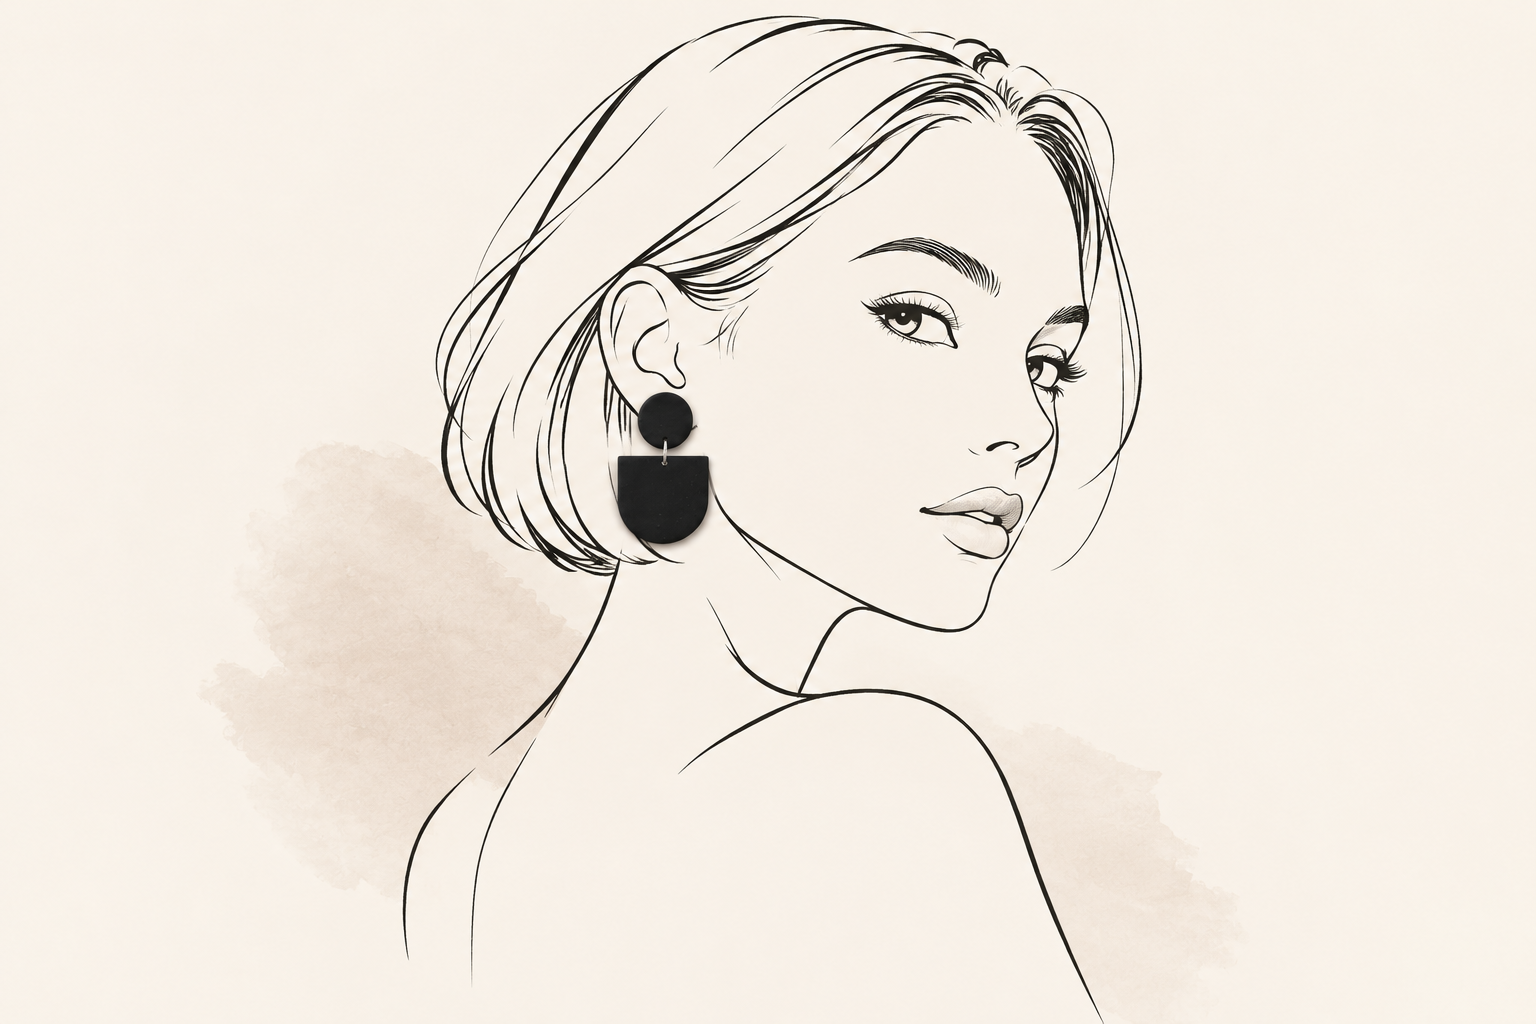
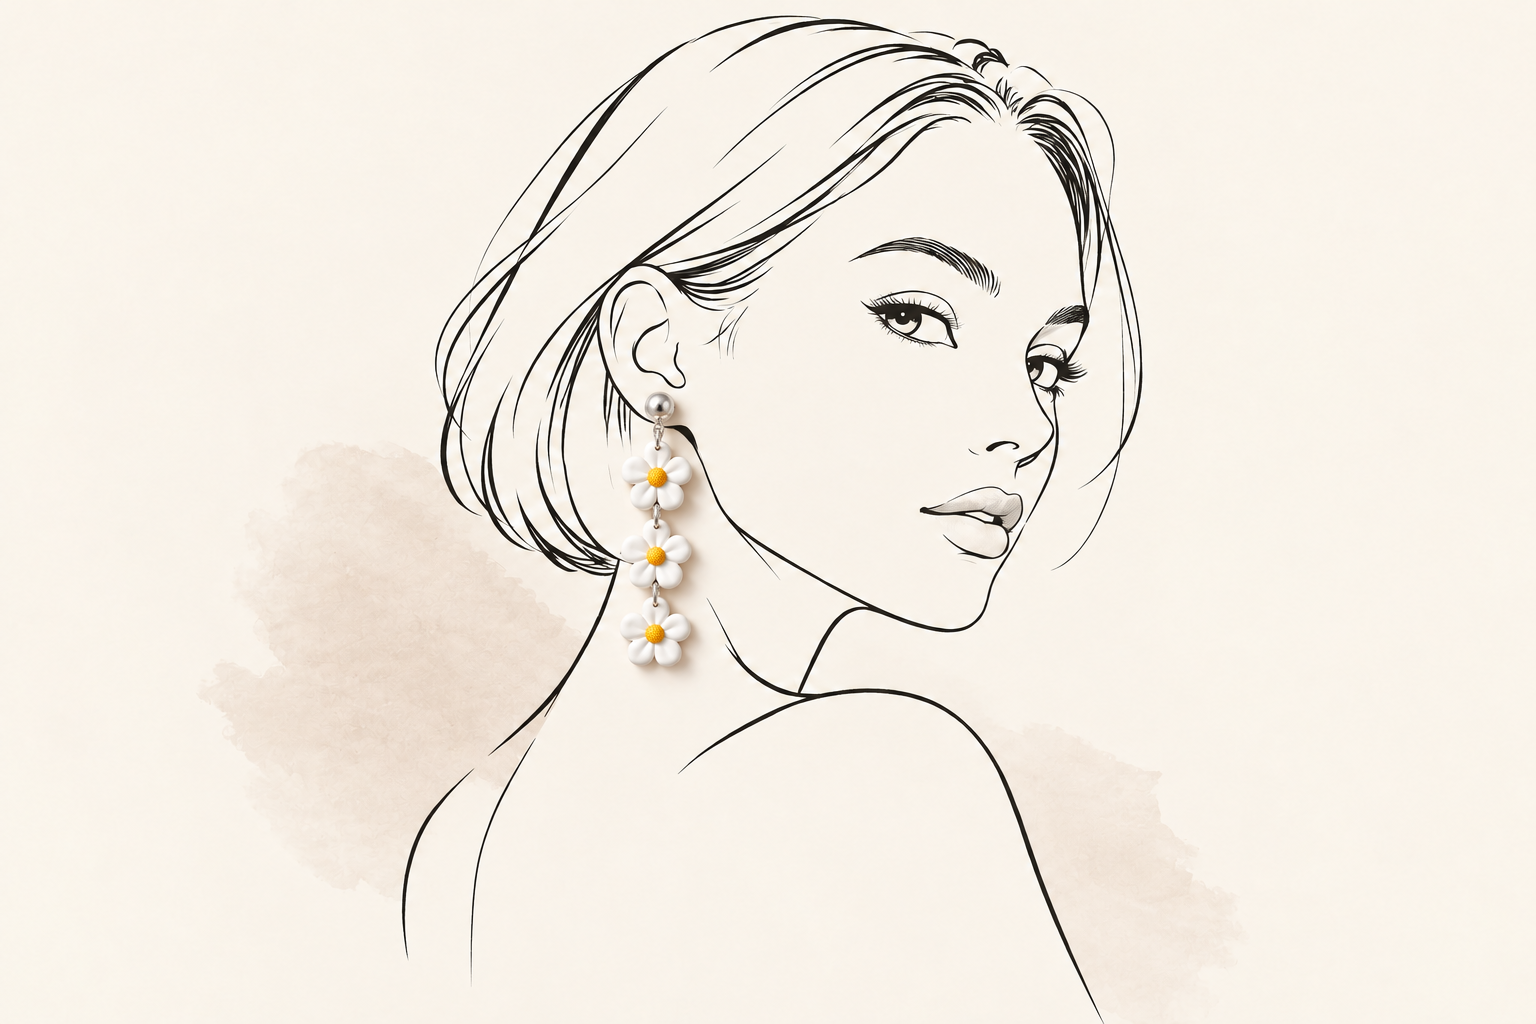
commit changes

diff --git a/index.html b/index.html
@@ -18,8 +18,8 @@
     <a href="#top" class="brand"><img src="Clay Lane Logo.jpeg" alt="Clay Lane logo"></a>
     <nav class="nav" aria-label="Main">
       <a href="shop.html">Shop</a>
-      <a href="#story">Our Story</a>
       <a href="#care">Care</a>
+      <a href="#story">Our Story</a>
       <a href="#contact">Contact</a>
     </nav>
     <button class="cart-btn" id="open-cart" aria-label="Open cart">Cart <span id="cart-count">0</span></button>
@@ -28,10 +28,8 @@
   <main id="top">
     <section class="hero">
       <div class="hero-copy">
-        <p class="eyebrow">Handcrafted polymer clay earrings</p>
-        <h1>Small things,<br><em>made with love.</em></h1>
+        <h1 class="eyebrow">Handcrafted polymer clay earrings</h1>
         <p class="lead">Lightweight statement earrings, shaped and finished by hand.</p>
-        <a href="shop.html" class="btn">Shop the collection</a>
       </div>
     </section>
 
@@ -69,64 +67,10 @@
       </svg>
     </div>
 
-    <section id="shop" class="section featured-section">
-      <div class="section-head">
-        <div>
-          <p class="eyebrow">A few favourites</p>
-          <h2>Featured pieces</h2>
-        </div>
-      </div>
-      <div class="grid" id="product-grid" data-featured="true"></div>
-      <div class="featured-cta"><a class="btn" href="shop.html">Shop all products</a></div>
-    </section>
-
-    <section class="atelier">
-      <div class="atelier-copy">
-        <p class="eyebrow">A little more personal</p>
-        <h2>Nature, shaped<br>by hand.</h2>
-        <p>Inspired by petals, winding stems and the quiet beauty of handmade things. Each piece carries its own little variation.</p>
-        <a href="#story" class="text-link">Discover the Clay Lane story <span aria-hidden="true">↗</span></a>
-      </div>
-      <div class="botanical-art" aria-hidden="true">
-        <img class="atelier-photo" src="SomethingPersonal%20whiteflower-three-tier.png" alt="" loading="lazy">
-        <span class="art-caption">Petals, pressed in clay</span>
-      </div>
-    </section>
-
-    <section id="story" class="section story">
-      <div>
-        <p class="eyebrow">Our story</p>
-        <h2>Shaped by hand, one pair at a time</h2>
-      </div>
-      <div>
-        <p>Every pair of Clay Lane earrings begins as a small block of polymer clay, blended into soft, earthy colours, cut, baked and finished by hand. No two pairs are ever exactly alike.</p>
-        <p>We design for everyday wear: light on the ear, gentle on the skin and made to be noticed.</p>
-      </div>
-    </section>
-
-    <section class="section perks">
-      <div><span class="petal-mark" aria-hidden="true">✳</span><h3>Handmade</h3><p>Crafted in small batches.</p></div>
-      <div><span class="petal-mark" aria-hidden="true">✳</span><h3>Lightweight</h3><p>Comfortable all day long.</p></div>
-      <div><span class="petal-mark" aria-hidden="true">✳</span><h3>Gift ready</h3><p>Packaged with care.</p></div>
-    </section>
-
     <section id="care" class="section care">
       <svg class="hand-frame" viewBox="0 0 100 100" preserveAspectRatio="none" aria-hidden="true">
         <path d="M1.2 2.4C18 1.4 33 2.8 50 1.9S82 1.2 98.7 2.2C99.4 20 98.3 38 99 55S98.4 85 98.6 97.6C80 98.6 64 97.3 48 98.3S18 98.8 1.4 97.7C.8 78 1.9 60 1.1 43S1.6 16 1.2 2.4Z"/>
         <path class="thin" d="M2.4 3.6C20 3 36 4 52 3.3S84 3.1 97.6 3.6C98.2 22 97.2 40 97.8 56S97.3 82 97.5 96.5C82 97.3 66 96.4 50 97.2S20 97.6 2.6 96.6C2 78 3 60 2.3 44S2.8 18 2.4 3.6Z"/>
-      </svg>
-      <svg class="care-girl" viewBox="0 0 160 200" aria-hidden="true">
-        <path d="M71 41C62 52 63 62 60 72C57 76 54 80 58 82C60 84 60 86 58 88C60 92 60 94 58 97C62 101 68 104 77 104"/>
-        <path d="M71 41C75 21 104 14 118 34C131 53 124 80 111 97"/>
-        <path d="M80 35C93 26 108 33 112 51M86 44C95 40 104 45 106 56M91 52C96 50 101 55 102 62"/>
-        <path d="M110 24C114 10 134 12 134 27C134 40 118 42 112 34"/>
-        <path d="M77 104C79 120 77 135 71 150M111 97C110 121 114 137 124 150"/>
-        <path d="M30 192C38 163 58 153 71 150M124 150C141 158 151 173 155 192"/>
-        <path d="M65 64Q70 61 75 64M64 58Q70 55 76 57M72 66Q70 68 66 67"/>
-        <path d="M58 89Q55 91 58 93M98 70C92 66 92 84 99 82"/>
-        <path class="gold" d="M99 86v5"/>
-        <circle class="gold-fill" cx="99" cy="95" r="4.5"/>
-        <path class="gold" d="M133 100c8 6 12 14 12 24M138 112c6 2 10 6 12 12"/>
       </svg>
       <h2>Caring for your earrings</h2>
       <ul>
@@ -134,6 +78,30 @@
         <li>Wipe gently with a soft, dry cloth.</li>
         <li>Store flat or hanging, away from direct sunlight.</li>
       </ul>
+    </section>
+
+    <section class="section perks" aria-labelledby="perks-title">
+      <div class="perks-heading">
+        <p class="eyebrow">Made with care</p>
+        <h2 id="perks-title">The little things matter</h2>
+      </div>
+      <div class="perks-grid">
+        <article class="perk-card">
+          <span class="petal-mark" aria-hidden="true">✿</span>
+          <h3>Handmade, always</h3>
+          <p>Shaped by hand in small batches.</p>
+        </article>
+        <article class="perk-card">
+          <span class="petal-mark" aria-hidden="true">✿</span>
+          <h3>Light as a petal</h3>
+          <p>Lightweight comfort, all day.</p>
+        </article>
+        <article class="perk-card">
+          <span class="petal-mark" aria-hidden="true">✿</span>
+          <h3>Ready to delight</h3>
+          <p>Thoughtfully wrapped for gifting.</p>
+        </article>
+      </div>
     </section>
 
     <section id="contact" class="section contact">
@@ -150,6 +118,22 @@
         <button class="btn" type="submit">Send message</button>
         <p class="form-msg" id="contact-msg" role="status"></p>
       </form>
+    </section>
+
+    <section id="story" class="section story">
+      <div>
+        <p class="eyebrow">Our story</p>
+        <h2>Shaped by hand, one pair at a time</h2>
+      </div>
+      <div>
+        <p>JJust a girl with big dreams, learning to bloom like a sunflower—reaching for the sunshine and finding joy in the little things.</p>
+
+        <p>Clay Lane is where my creativity takes root. Each pair of earrings is shaped, baked and finished by hand, bringing my favourite colours and designs to life. 
+          <br>
+          They’re my little favourites, made to bring a touch of sunshine to your everyday.</p>
+
+        
+      </div>
     </section>
 
   </main>

diff --git a/style.css b/style.css
@@ -141,11 +141,16 @@ button { font: inherit; cursor: pointer; }
 .story > div { max-width: 440px; }
 .story::before { content: ""; position: absolute; z-index: -1; top: 0; bottom: 0; right: 0; width: 58%; background: url("OurStory%20black%20circle-halfcircle-drop.png") center / cover no-repeat; mix-blend-mode: multiply; -webkit-mask-image: radial-gradient(closest-side, #000 55%, transparent 100%); mask-image: radial-gradient(closest-side, #000 55%, transparent 100%); pointer-events: none; }
 .story::after { content: ""; position: absolute; top: 1.3rem; right: 1.5rem; width: 42px; height: 42px; border: 1px solid #d7bba2; border-radius: 50% 50% 48% 52%; box-shadow: inset 0 0 0 5px var(--ivory), inset 0 0 0 6px #d7bba2; opacity: .8; }
-.perks { display: grid; grid-template-columns: repeat(3, 1fr); text-align: center; gap: 2rem; }
-.petal-mark { display: block; color: var(--clay); font-family: var(--serif); font-size: 1.8rem; line-height: 1; margin-bottom: .75rem; }
-.perks h3 { font-size: 1.5rem; }
-.perks p { color: var(--muted); }
-.care { text-align: center; background: var(--ivory-2); max-width: none; }
+.perks { max-width: 800px; }
+.perks-heading { max-width: 600px; margin: 0 auto 1.75rem; text-align: center; }
+.perks-heading .eyebrow { margin-bottom: .4rem; }
+.perks-grid { display: grid; grid-template-columns: repeat(3, minmax(0, 1fr)); gap: 1rem; }
+.perk-card { position: relative; overflow: hidden; padding: 1.35rem 1rem; text-align: center; background: linear-gradient(145deg, #fffaf4, var(--ivory-2)); border: 1px solid var(--line); }
+.perk-card::before { content: ""; position: absolute; top: 0; left: 50%; width: 3rem; height: 2px; background: var(--gold); transform: translateX(-50%); }
+.petal-mark { display: grid; place-items: center; width: 2.6rem; height: 2.6rem; margin: 0 auto .7rem; border: 1px solid #d7bba2; border-radius: 50%; background: var(--ivory); color: var(--clay); font-size: 1.15rem; line-height: 1; }
+.perk-card h3 { margin-bottom: .3rem; font-size: 1.25rem; }
+.perk-card p { max-width: 18rem; margin: 0 auto; color: var(--muted); font-size: .9rem; line-height: 1.5; }
+.care { text-align: center; background-color: var(--ivory-2); background-image: url("Caring%20black%20circle-doublecircle-drop.png"); background-position: right bottom; background-repeat: no-repeat; background-size: clamp(220px, 28vw, 380px) auto; background-blend-mode: multiply; max-width: none; }
 .care h2::after, .contact h2::after { content: ""; display: block; width: 58px; height: 1px; margin: 1rem auto 0; background: var(--gold); }
 .care h2::before, .contact h2::before { content: "✿"; display: block; color: var(--clay); font-size: 1rem; margin-bottom: .6rem; }
 .care { position: relative; overflow: hidden; }
@@ -157,10 +162,7 @@ button { font: inherit; cursor: pointer; }
 .hand-frame { position: absolute; inset: 1rem; width: calc(100% - 2rem); height: calc(100% - 2rem); fill: none; stroke: var(--ink); stroke-width: 1.6; stroke-linecap: round; stroke-linejoin: round; pointer-events: none; opacity: .85; }
 .hand-frame .thin { stroke: var(--gold); stroke-width: 1; opacity: .8; }
 .hand-frame path { vector-effect: non-scaling-stroke; }
-.care > .care-girl { position: absolute; z-index: 1; right: clamp(2rem, 6vw, 5rem); bottom: 1.1rem; width: clamp(110px, 12vw, 160px); fill: none; stroke: var(--ink); stroke-width: 1.4; stroke-linecap: round; stroke-linejoin: round; opacity: .8; pointer-events: none; }
-.care-girl .gold { stroke: var(--gold); }
-.care-girl .gold-fill { fill: var(--gold); stroke: none; }
-@media (max-width: 800px) { .care > .care-girl { width: 80px; right: 2.4rem; opacity: .55; } }
+@media (max-width: 800px) { .care { background-size: clamp(190px, 52vw, 260px) auto; } }
 .care li { padding: .5rem 0; border-bottom: 1px solid var(--line); }
 .contact { text-align: center; }
 .contact { position: relative; }
@@ -220,13 +222,14 @@ input:focus, textarea:focus { outline: 1px solid var(--gold); border-color: var(
 
 @media (max-width: 800px) {
   .site-header { padding: .4rem 1rem; }
-  .menu-toggle { display: block; }
+  .menu-toggle { display: block; color: #000; }
+  .cart-btn, .cart-btn:hover { color: #000; }
   .brand { position: static; grid-column: 2; grid-row: 1; justify-self: center; }
   .brand img { height: 56px; width: 56px; }
   .nav { display: none; position: absolute; grid-column: 1 / -1; justify-self: stretch; top: 100%; left: 0; right: 0; background: var(--ivory); flex-direction: column; gap: 0; border-bottom: 1px solid var(--line); }
   .nav.open { display: flex; }
   .nav a { padding: 1rem 1.5rem; border-top: 1px solid var(--line); }
-  .story, .perks, .modal-box.wide { grid-template-columns: 1fr; }
+  .story, .perks-grid, .modal-box.wide { grid-template-columns: 1fr; }
   .story { min-height: 0; padding-top: 3rem; padding-bottom: 20rem; }
   .story > div { max-width: none; }
   .story::before { top: auto; left: 0; right: 0; width: auto; height: 20rem; }

diff --git a/script.js b/script.js
@@ -59,6 +59,7 @@
   // Products
   const grid = $("#product-grid");
   function renderProducts(filter = "all") {
+    if (!grid) return;
     const isFeatured = grid.dataset.featured === "true";
     const featuredIds = [1, 4, 7];
     const products = PRODUCTS.filter(p => (filter === "all" || p.cat === filter) && (!isFeatured || featuredIds.includes(p.id)));
@@ -87,7 +88,7 @@
     renderProducts(chip.dataset.filter);
   });
 
-  grid.addEventListener("click", e => {
+  if (grid) grid.addEventListener("click", e => {
     const add = e.target.closest("[data-add]");
     const view = e.target.closest("[data-view]");
     if (add) { addToCart(+add.dataset.add); openCart(); }

diff --git a/shop.html b/shop.html
@@ -19,8 +19,9 @@
     <nav class="nav" aria-label="Main">
       <a href="index.html">Home</a>
       <a href="shop.html" aria-current="page">Shop</a>
-      <a href="index.html#story">Our Story</a>
       <a href="index.html#care">Care</a>
+      <a href="index.html#story">Our Story</a>
+      <a href="index.html#contact">Contact</a>
     </nav>
     <button class="cart-btn" id="open-cart" aria-label="Open cart">Cart <span id="cart-count">0</span></button>
   </header>
